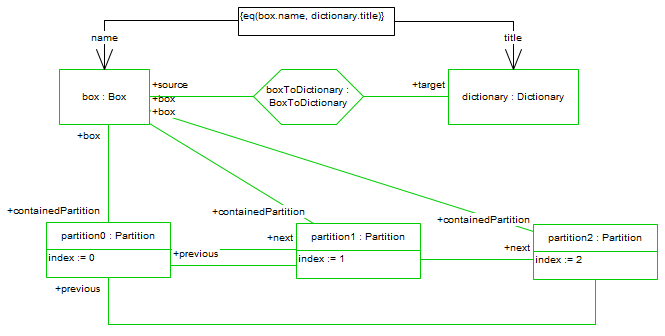
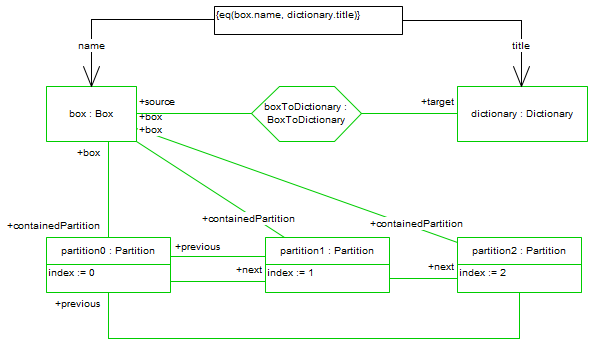
Submitted part 4 for review, finished "shortcuts" and set up protocol explanations in Part 6.

diff --git a/Handbook/04_tripleGraphTransformations/4_rules/visRules.tex b/Handbook/04_tripleGraphTransformations/4_rules/visRules.tex
@@ -93,7 +93,7 @@ constraint, then \texttt{OK} to affirm and close the window.
 
 \newpage
 
-Our first TGG rule is not yet complete though. Our goal is to transform a \texttt{Box} into a \texttt{Dictionary}, so we still need to create the initial
+Our first TGG rule is not yet complete. Our goal is to transform a \texttt{Box} into a \texttt{Dictionary}, so we still need to create the initial
 structure of the learning box. In contrast to the rather simple dictionary, where \texttt{Dictionary} is a direct container for every \texttt{Entry} object, we
 have to create a number of connected \texttt{Partitions} to hold the \texttt{Cards}.
 
@@ -101,15 +101,16 @@ have to create a number of connected \texttt{Partitions} to hold the \texttt{Car
 
 \item[$\blacktriangleright$] Given that there are three valid difficulty levels for every \texttt{Entry} we create three \texttt{Partition} object variables,
 complete with appropriate link variables that satisfy the Leitner's Box rules (the \texttt{next}, \texttt{previous}, and \texttt{box} references). Your TGG rule
-should come to resemble Fig.~\ref{ea:boxtodictionaryrule_complete}.
+should come to resemble Fig.~\ref{ea:boxtodictionaryrule_complete}.\footnote{To review how to set object attribute constraints, review Part III, Section 4}
 
 \vspace{0.5cm}
 
 \begin{figure}[htbp]
-\hspace{-2cm}
-  \includegraphics[width=1.2\textwidth]{ea_BoxToDictionaryRuleComplete}
+\begin{center}
+  \includegraphics[width=\textwidth]{ea_BoxToDictionaryRuleComplete}
   \caption{Complete TGG rule diagram for \texttt{BoxToDictionaryRule}}
   \label{ea:boxtodictionaryrule_complete}
+  \end{center}
 \end{figure}
 
 \end{enumerate}
@@ -140,21 +141,21 @@ new rule will automatically open in a new window.
 
 \begin{figure}[htbp]
 \begin{center}
- \includegraphics[width=0.9\textwidth]{ea_deriveCardToEntry}
+ \includegraphics[width=0.7\textwidth]{ea_deriveCardToEntry}
   \caption{Derive a new rule from an existing one}
   \label{ea:derive_from_tgg_rule}
 \end{center}
 \end{figure}
 \FloatBarrier
 
-\item[$\blacktriangleright$] Add green instances of \texttt{Card} and \texttt{Entry} to the rule, and link them to their respective \texttt{partition0} and
+\item[$\blacktriangleright$] Add green instances of \texttt{Card} and \texttt{Entry} to the new rule, and link them to their respective \texttt{partition0} and
 \texttt{dictionary} elements. 
 
 \vspace{0.5cm}
 
 \item[$\blacktriangleright$] Quick-link from \texttt{card} to \texttt{entry} and create another TGG correspondence link. You'll notice that the
 \texttt{select correspondence link} drop-down menu is empty -- we haven't defined one between these types yet in the schema. Luckily, we're able to create one
-here on-the-fly. Select \texttt{Create new correspondence type} and name it \texttt{CardToEntry} (Fig~\ref{ea:newCorrespondenceDialogue}). 
+here on-the-fly. Select \texttt{Create New Correspondence Type} and name it \texttt{CardToEntry} (Fig~\ref{ea:newCorrespondenceDialogue}). 
 
 \vspace{0.5cm}
 
@@ -168,7 +169,17 @@ here on-the-fly. Select \texttt{Create new correspondence type} and name it \tex
 
 \item[$\blacktriangleright$] Your diagram should now resemble Fig.~\ref{ea:cardtoentry_1}. We're not done yet though -- we still need to handle attributes!
 
-\vspace{0.5cm}
+\end{enumerate}
+
+We must create a series of constraints in order to specify how relevant attributes should be handled. Let's first define a construct for every
+\texttt{entry\-.cont\-ent}, \texttt{card.back}, and \texttt{card.face} EString values so that it's easy to (temporarily) persist the values during the
+transformation. This will help us figure out how we should combine the front and back of each \texttt{card} as a single \texttt{content} attribute and,
+in the opposite direction, help to separate the contents so that they may be split into \texttt{card.back} and \texttt{card.face}.
+
+Let's define \texttt{entry\-.cont\-ent} as: \texttt{<word>:<mean\-ing>}. \texttt{card\-.back} should therefore be \texttt{Quest\-ion:<word>} and
+similarly, \texttt{card\-.face} should be \texttt{Ans\-wer:<mean\-ing>}. 
+
+\newpage
 
   \begin{figure}[htbp]
   \begin{center}
@@ -178,24 +189,11 @@ here on-the-fly. Select \texttt{Create new correspondence type} and name it \tex
   \end{center}
   \end{figure}
 
-\end{enumerate}
-
-We must create a series of constraints in order to specify how relevant attributes should be handled. Let's first define a construct for every
-\texttt{entry\-.cont\-ent}, \texttt{card.back}, and \texttt{card.face} EString values so that it's easy to (temporarily) persist the values during the
-transformation. This will help us figure out how we should combine the front and back of each \texttt{card} as a single \texttt{content} attribute and,
-in the opposite direction, help to separate the contents so that they may be split into \texttt{card.back} and \texttt{card.face}.
-
-\vspace{0.5cm}
-
-Let's define \texttt{entry\-.cont\-ent} as: \texttt{<word>:<mean\-ing>}. \texttt{card\-.back} should therefore be \texttt{Quest\-ion:<word>} and
-similarly, \texttt{card\-.face} should be \texttt{Ans\-wer:<mean\-ing>}. 
 
 \begin{itemize}
 
 \item[$\blacktriangleright$] We can now define three \emph{attribute constraints} to implement this. Luckily, we have two predefined constraints,
 \texttt{addPrefix} and \texttt{concat} to help us. Use the toolbox again to create a new TGG constraint, and add the following to your diagram:
-
-\vspace{0.5cm}
 
   \item \texttt{addPrefix(``Question '', word, card.back)}  
   
@@ -205,13 +203,9 @@ similarly, \texttt{card\-.face} should be \texttt{Ans\-wer:<mean\-ing>}.
 
 \end{itemize}
 
-\vspace{0.5cm}
-
 Your rule should now resemble Fig.~\ref{ea:cardtoentry_2}, where ``Question'' and ``Answer'' are EString literals, \texttt{word} and \texttt{meaning} are
 temporary variables, and \texttt{card.face}, \texttt{card.back}, and \texttt{entry.content} are attribute expressions (this should be familiar from SDM story
 patterns).
-
-\vspace{0.5cm}
 
 \begin{figure}[htbp]
 \begin{center}
@@ -222,7 +216,7 @@ patterns).
 \end{figure}
 \FloatBarrier
 
-Our final task is to specify where a new \texttt{card} (when transformed from \texttt{entry} to \texttt{card}) will be placed.  We purposefully created three
+Our final task is to specify where a new \texttt{card} (when transformed from an \texttt{entry}) will be placed.  We purposefully created three
 partitions to match the three difficulty levels, but if you check the constraints drop-down menu, there is nothing that can implement this specific kind of
 mapping. We will therefore need to create our own constraint to handle this.
 

diff --git a/Handbook/06_miscellaneous/4_protocol/protoSrc.tex b/Handbook/06_miscellaneous/4_protocol/protoSrc.tex
@@ -4,12 +4,60 @@
 
 \genHeader
 
-In Part IV, Section 6, we reviewed how to use the integrator feature to visually trace the transformation process. It's based on the correspondence metamodel,
-but actually runs off the relevant \texttt{protocol.xmi}, which is a tree you are able to view directly. This file is a listing of each attempted, successful,
-and failed step in the transformation process. More than that, it includes detailed notes on the object it was operating on, and instead of just indicating that
-something has gone wrong, it lists the reason why. This file can be a useful debugging tool for when you're \emph{really} stuck.
+In Part IV, Section 6, we introduced the integrator feature which allows you to visually trace a transformation between two models. It's based on the
+correspondence or link metamodel, but actually runs off the relevant \texttt{protocol.xmi} file. This file essentially provides the exact same information as
+the integrator, but in much deeper detail. Don't worry -- it's not as scary as it looks!
 
-To help explain, we will refer to the forward protocol file generated in Part V, when translating from the MocaTree to the dictionary model. More
-specfically, we'll compare what we're able to see using the integrator as shown section 3.3, when the construction of the transformation at that time presented
-a choice between two valid rules for handling authors.
+To help us explain, let's compare what we see using the intergrator with \texttt{corrFWD.xmi} and \texttt{protocol\_FWD.xmi}, as generated at the end of the
+introduction to Part IV, Section 7, where a fourth partition and card was added to \texttt{source.xmi} before we added a rule to handle it.
 
+First, check out in integrator in Fig.~\ref{eclipse:integratorFWD}.
+
+\begin{figure}[htbp]
+\begin{center} 
+  \includegraphics[width=\textwidth]{eclipse_integratorFWD}
+  \caption{comment}  
+  \label{eclipse:integratorFWD}
+\end{center}
+\end{figure}
+
+It starts the transformation from :::
+
+Now let's see the equivalent steps in the protocol file, described in Fig.~\ref{eclipse:protocolFWD}.
+
+\begin{figure}[htbp]
+\begin{center} 
+  \includegraphics[width=\textwidth]{eclipse_protoFWD}
+  \caption{comment}  
+  \label{eclipse:protocolFWD}
+\end{center}
+\end{figure}
+
+Again, it starts by trying to translate \ldots It's obvious that every edge listed under the successful operation procedure are the colourful and visualized
+elements in the integrator.
+
+Let's skip ahead to the expanded translation protocol, which is the beginning of out ``errors'' First, 5 titles above it, you'll notice it says ``Element
+ignored''. Double clicking on that, we can see Fig.~\ref{eclipse:ignoredElement} that it ignored partition 3. you'll notice that this cyclic error is because
+the translation was following the exact same steps. So instead, it just goes ahead and applies \texttt{cardToEntry} anyway (optimistic).
+
+\begin{figure}[htbp]
+\begin{center} 
+  \includegraphics[width=0.5\textwidth]{eclipse_ignoreElementProperty}
+  \caption{comment}  
+  \label{eclipse:ignoredElement}
+\end{center}
+\end{figure}
+
+Finally, it tries to translate the only remaining element, \texttt{containedPartition}. You'll notice that there is nothing under `Candiaite protocol' Clicking
+on the `edge translation failed,' instead of being stuck guessing like we would have in the integrator (image?), the properties tell us exactly what the problem
+is - there's no rule able to handle this! (Fig.~\ref{eclipse:NoAppRule})
+
+\begin{figure}[htbp]
+\begin{center} 
+  \includegraphics[width=0.5\textwidth]{eclipse_NoAppRule}
+  \caption{comment}  
+  \label{eclipse:NoAppRule}
+\end{center}
+\end{figure}
+
+Conclusion

diff --git a/Handbook/04_tripleGraphTransformations/4_rules/implementingIndexToLevel.tex b/Handbook/04_tripleGraphTransformations/4_rules/implementingIndexToLevel.tex
@@ -5,7 +5,7 @@
 
 If everything has been done correctly up to this point, your project should save and build without errors in Eclipse. In fact, there should now be three
 generated repository projects included in \texttt{MyWorkingSet}. We're most concerned with \texttt{LearningBox\-To\-Dictionary\-Integration}, which implements
-our TGG and its rules. Expand your folder so it resembles Fig.~\ref{eclipse:tggGenerated}
+our TGG and its rules. Expand your folder so it resembles Fig.~\ref{eclipse:tggGenerated}.
 
 \begin{figure}[htbp]
 \begin{center}
@@ -54,7 +54,7 @@ and might even make sense for some applications, it does not in the context of p
 
 At compile time, the set of constraints (also called \emph{Constraint Satisfaction Problem} (CSP)) for every TGG rule is ``solved'' for each case by
 operationalizing all constraints and determining a feasible sequence in which the operations can be executed, compatible to the declared adornments of each
-constraint. If the CSP cannot be solved, an exception is thrown at compile time
+constraint. If the CSP cannot be solved, an exception is thrown at compile time.
 
 Now that we have a better understanding behind the construction of attribute constraints, let's implement \texttt{IndexToLevel}.
 
@@ -133,7 +133,7 @@ most likely to have been returned to the starting position.
 
 In the \texttt{solve} method, there is a switch statement based on whichever adornment is currently active. For all cases, \texttt{setSatisfied}
 informs the TGG whether or not the constraint (and by consequence, the precondition of the rule) can be satisfied. For \texttt{BF}, it suggests that if a
-negative partition were to exist, to simply set its index value to 0. Similarily, if there was ever a partition more than 2 (i.e., \texttt{partition4}), it
+negative partition were to exist, to simply set its index value to 0. Similarly, if there was ever a partition more than 2 (i.e., \texttt{partition4}), it
 would set its index to the highest difficulty level, 2. Otherwise, \texttt{BF} simply gets the index of the partition, assigns it so it becomes bound, and
 terminates. In the final case, where \texttt{level} is already known (i.e., transforming an \texttt{entry} into a \texttt{card}), if the String \texttt{level}
 cannot be matched to any of those in the list, the constraint cannot be fulfilled, and the rule cannot be completed.

diff --git a/Handbook/04_tripleGraphTransformations/2_settingUp/visImportSrc.tex b/Handbook/04_tripleGraphTransformations/2_settingUp/visImportSrc.tex
@@ -54,8 +54,8 @@ of three difficulty \texttt{level}s.
 \end{figure}
 
 \item[$\blacktriangleright$] It should be said that while you are able to simply copy and paste packages between multiple EAPs (i.e., copy
-\texttt{<<E\-Pack\-age>>Dict\-ion\-ary\-Lang\-uage} into the \texttt{MyWorkingSet} root note of your source metamodel), if any of the copied packages have
-dependencies on other packages, it cannot be done so easily. All links would be destroyed! 
+\texttt{<<E\-Pack\-age>>Dict\-ion\-ary\-Lang\-uage} into the \texttt{MyWorkingSet} root note \texttt{LeitnersLearningBox.eap}), if any of the copied packages
+have dependencies on other packages, it cannot be done so easily. All links would be destroyed! 
 
 \clearpage
 
@@ -84,7 +84,7 @@ the window once the small green bar appears (Fig.~\ref{ea:export}).
 \end{center}
 \end{figure}
 
-\item[$\blacktriangleright$] Go back to Eclipse and open \texttt{LeitnersLearningBox.eap}. Right-click on \texttt{MyWorkingSet} and navigate to ``Import
+\item[$\blacktriangleright$] Go back to Eclipse and open \texttt{LeitnersLearningBox.eap}. Right-click on \texttt{My Working Set} and navigate to ``Import
 Model from XMI\ldots''
 
 \item[$\blacktriangleright$] Find the \texttt{.xmi} file you just saved and press \texttt{import}. Press \texttt{OK} in the confirmation dialogue; Your project
@@ -115,7 +115,7 @@ Part II} (Fig.~\ref{ea:importValidationWindow}) and exporting the dual-metamodel
 
 \vspace{0.5cm}
 
-\item[$\blacktriangleright$] That's it! You now have the second metamodel for your transformation, and are ready to start specifying your TGG rules.
+\item[$\blacktriangleright$] That's it! You now have the second metamodel for your transformation prepared, and are ready to start specifying your TGG rules.
 
 \jumpSingle{TGGSchema}
 

diff --git a/Handbook/04_tripleGraphTransformations/2_settingUp/2.1_startingFresh/startingFreshSrc.tex b/Handbook/04_tripleGraphTransformations/2_settingUp/2.1_startingFresh/startingFreshSrc.tex
@@ -2,7 +2,7 @@
 \label{sec:loadSourceMeta}
 \begin{itemize}
 
-\item[$\blacktriangleright$] Press the \texttt{new} button on the Eclipse toolbar and navigate to ``Examples/eMoflon Handbook Examples/''
+\item[$\blacktriangleright$] Press the \texttt{New} button on the Eclipse toolbar and navigate to ``Examples/eMoflon Handbook Examples/''
 (Fig.~\ref{eclipse:downPartIV}). There are two \texttt{Part IV Fresh Start} cheat packages: one for our visual syntax, the other for our textual
 syntax. They each contain the full \texttt{LeitnersLearningBox} metamodel, as well as each method implemented as an SDM and an example instance in
 ``LearningBoxLanguage/instances/''. If you need help deciding which syntax to use, refer to Part I, Section 1.

diff --git a/Handbook/04_tripleGraphTransformations/9_synchronization/syncSrc.tex b/Handbook/04_tripleGraphTransformations/9_synchronization/syncSrc.tex
@@ -149,7 +149,7 @@ directories.
 
 \item[$\blacktriangleright$] On a final note, try running the integrator on the newest \texttt{corr\_BWD}, and proceed as far as possible
 (Fig.~\ref{eclipse:synchBwdIntegrator}). Notice how the model doesn't show the deletion of entry one? Recall that the rules of any TGG are by definition,
-monotoic. The only specify the evolution or construction of the triple -- a different component of eMoflon takes care of any destructive changes. As a result,
+monotonic. The only specify the evolution or construction of the triple -- a different component of eMoflon takes care of any destructive changes. As a result,
 the card essentially `disappears' from all models.
 
 \begin{figure}[htbp]

diff --git a/Handbook/04_tripleGraphTransformations/7_extendingTransformation/texNewRule.tex b/Handbook/04_tripleGraphTransformations/7_extendingTransformation/texNewRule.tex
@@ -35,8 +35,7 @@ for such ignore rules.
 
 \vspace{0.5cm}
 
-\item[$\blacktriangleright$] That's it! Save and build, then run the TGG again with the `extra' \texttt{partition} to confirm it worked!\footnote{If you
-received an error about the implementations of `addToStringRep' or `toString,' please visit Part III and read the introductions to Section 8 and Section 10.}
+\item[$\blacktriangleright$] That's it! Save and build, then run the TGG again with the `extra' \texttt{partition} to confirm it worked!
 If so, you are now free to add as many \texttt{partition}s and \texttt{card}s to \texttt{source.xmi} -- the transformation is now able to elegantly ignore them all.
 
 \vspace{0.5cm}

diff --git a/Handbook/04_tripleGraphTransformations/5_inAction/actionSrc.tex b/Handbook/04_tripleGraphTransformations/5_inAction/actionSrc.tex
@@ -4,8 +4,8 @@
 \label{sect:TGGs_in_Action}
 
 Before we can execute our rules, we need to create something for the TGG to transform. In other words, we need to create an instance model\footnote{For a
-detailed review of instances and how to create them, refer to Part II, Section 3} of either our target or our source metamodel! Since dictionaries are of a much
-simpler structure, let's start with the backwards transformation.
+detailed review of instances and how to create instances, refer to Part II, Section 3} of either our target or our source metamodel! Since dictionaries are of a
+much simpler structure, let's start with the backwards transformation.
 
 \begin{itemize}
 

diff --git a/Handbook/04_tripleGraphTransformations/7_extendingTransformation/visNewRule.tex b/Handbook/04_tripleGraphTransformations/7_extendingTransformation/visNewRule.tex
@@ -4,7 +4,7 @@
 \visHeader
 
 Remember that you can start the majority of new rules two different ways! You can either return to the TGG's \texttt{Rules} diagram and use the toolbox
-there, or knowing that you need \texttt{box} and \texttt{partition0} for the context of the transformation, you can \emph{derive} this rule from the
+there, or knowing that you need \texttt{box} and \texttt{partition0} for the context of the transformation, you can \emph{derive} this rule from 
 \texttt{BoxToDictionaryRule}.
 
 \begin{itemize}

diff --git a/Handbook/04_tripleGraphTransformations/3_schema/visSchema.tex b/Handbook/04_tripleGraphTransformations/3_schema/visSchema.tex
@@ -5,7 +5,7 @@
 
 \begin{itemize}
 
-\item[$\blacktriangleright$] With \texttt{LeitnersLearningBox.eap} open in EA, add a new package to your \texttt{MyWorkingSet} model root. Name it
+\item[$\blacktriangleright$] With \texttt{LeitnersLearningBox.eap} open in EA, add a new package to \texttt{MyWorkingSet} model root. Name it
 \texttt{Learning\-Box\-To\-Dictionary\-Integration} (Fig.~\ref{ea:intgPackage}).
 
 \vspace{0.5cm}

diff --git a/Handbook/06_miscellaneous/src/miscellaneous_mainFile.tex b/Handbook/06_miscellaneous/src/miscellaneous_mainFile.tex
@@ -54,6 +54,7 @@
 {../1_grokkingEA/05_verbose/}{../1_grokkingEA/06_duplicating/}{../1_grokkingEA/07_seek/}{../1_grokkingEA/08_advSearch/}%
 {../1_grokkingEA/09_multiEAPs/}%
 {../2_subversionEA/}{../3_existingEMF/emfImages/}%
+{../4_protocol/pImages/}%
 }
 
 % --- HEADER FUNCTIONS % --------------------------------------------------------------------------------------------------------------------------------------

diff --git a/Handbook/06_miscellaneous/5_shortcuts/shortcutsSrc.tex b/Handbook/06_miscellaneous/5_shortcuts/shortcutsSrc.tex
@@ -15,6 +15,7 @@ shortcuts, such as \texttt{Ctrl + S} and \texttt{Ctrl + Z}, are still applicable
 \texttt{Ctrl + 1} (problems tab) & Quick-fix menu \\
 \\
 \texttt{Alt + arrow} (Integrator) & Proceed to next step \\
+\texttt{Shift + Alt + arrow} (Integrator) & Fast navigation \\
 \texttt{Shift + Ctrl + Alt + arrow} (Integrator) & Proceed to next breakpoint \\
 %
 \end{tabular}
